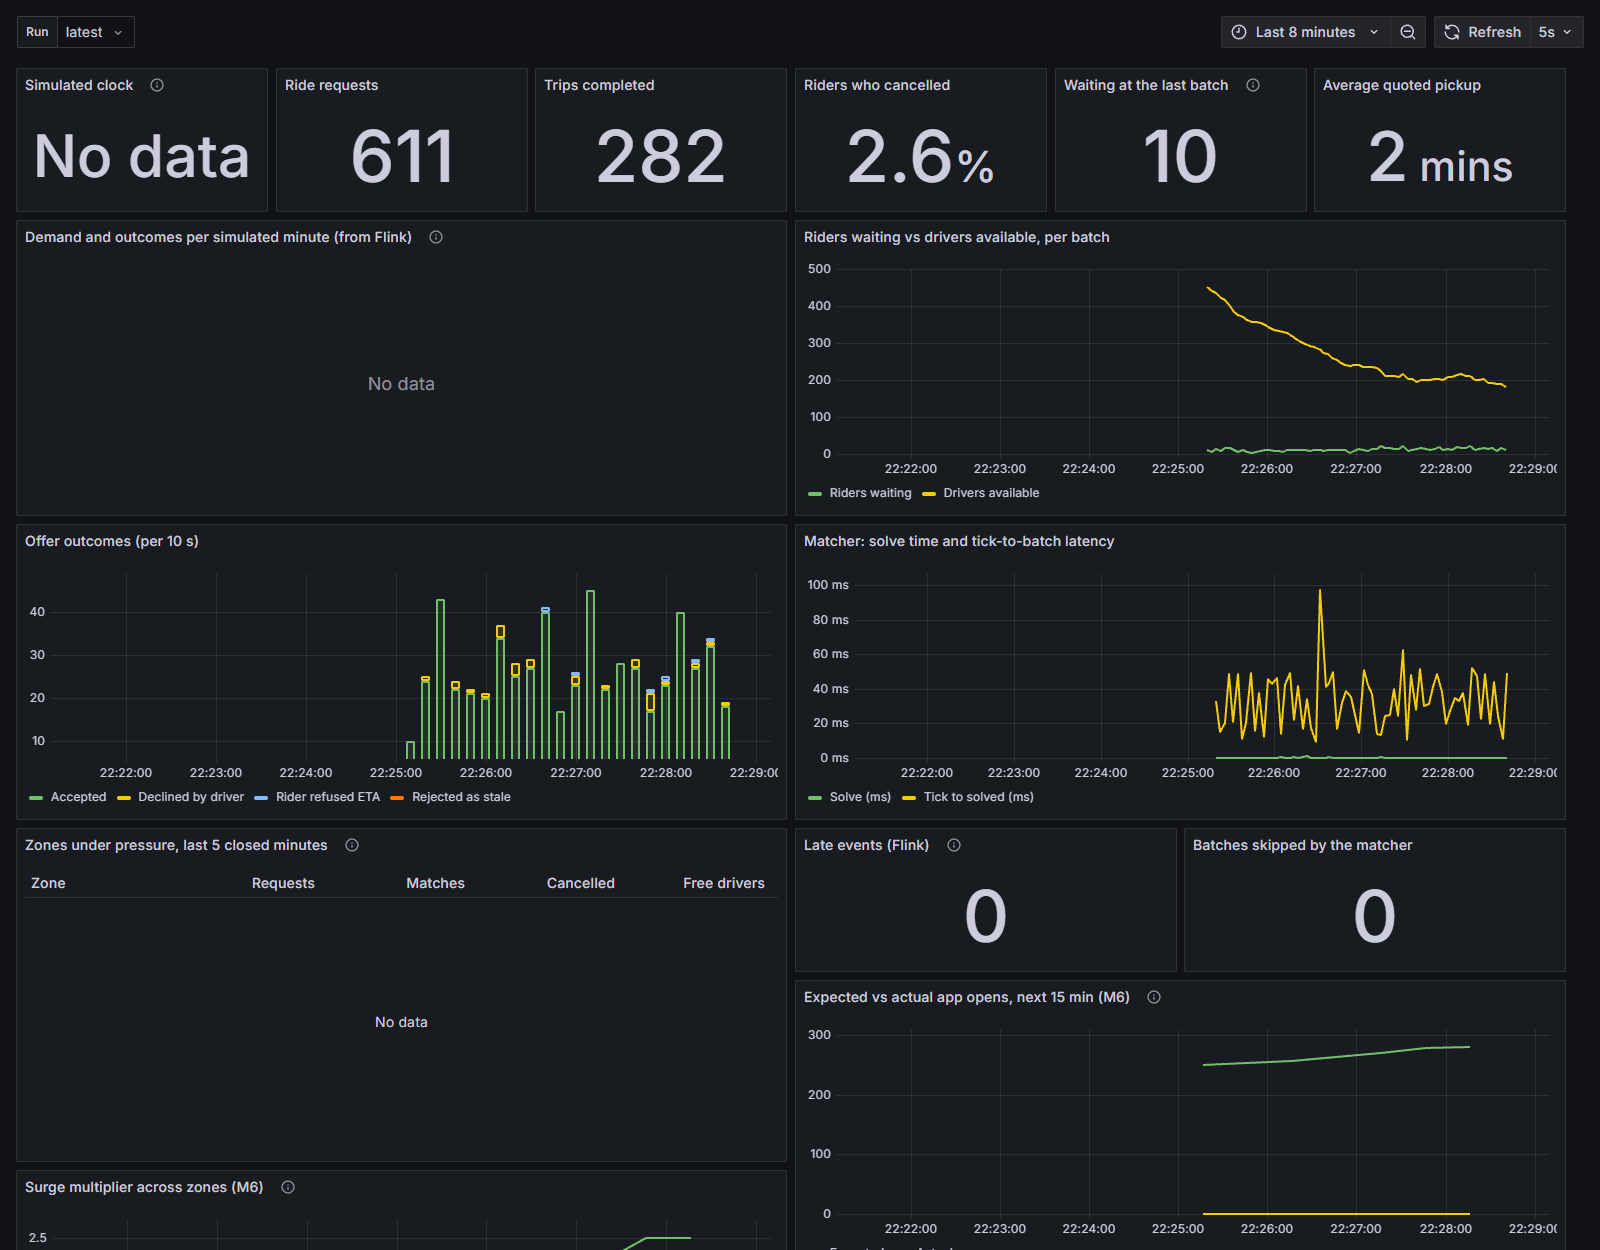
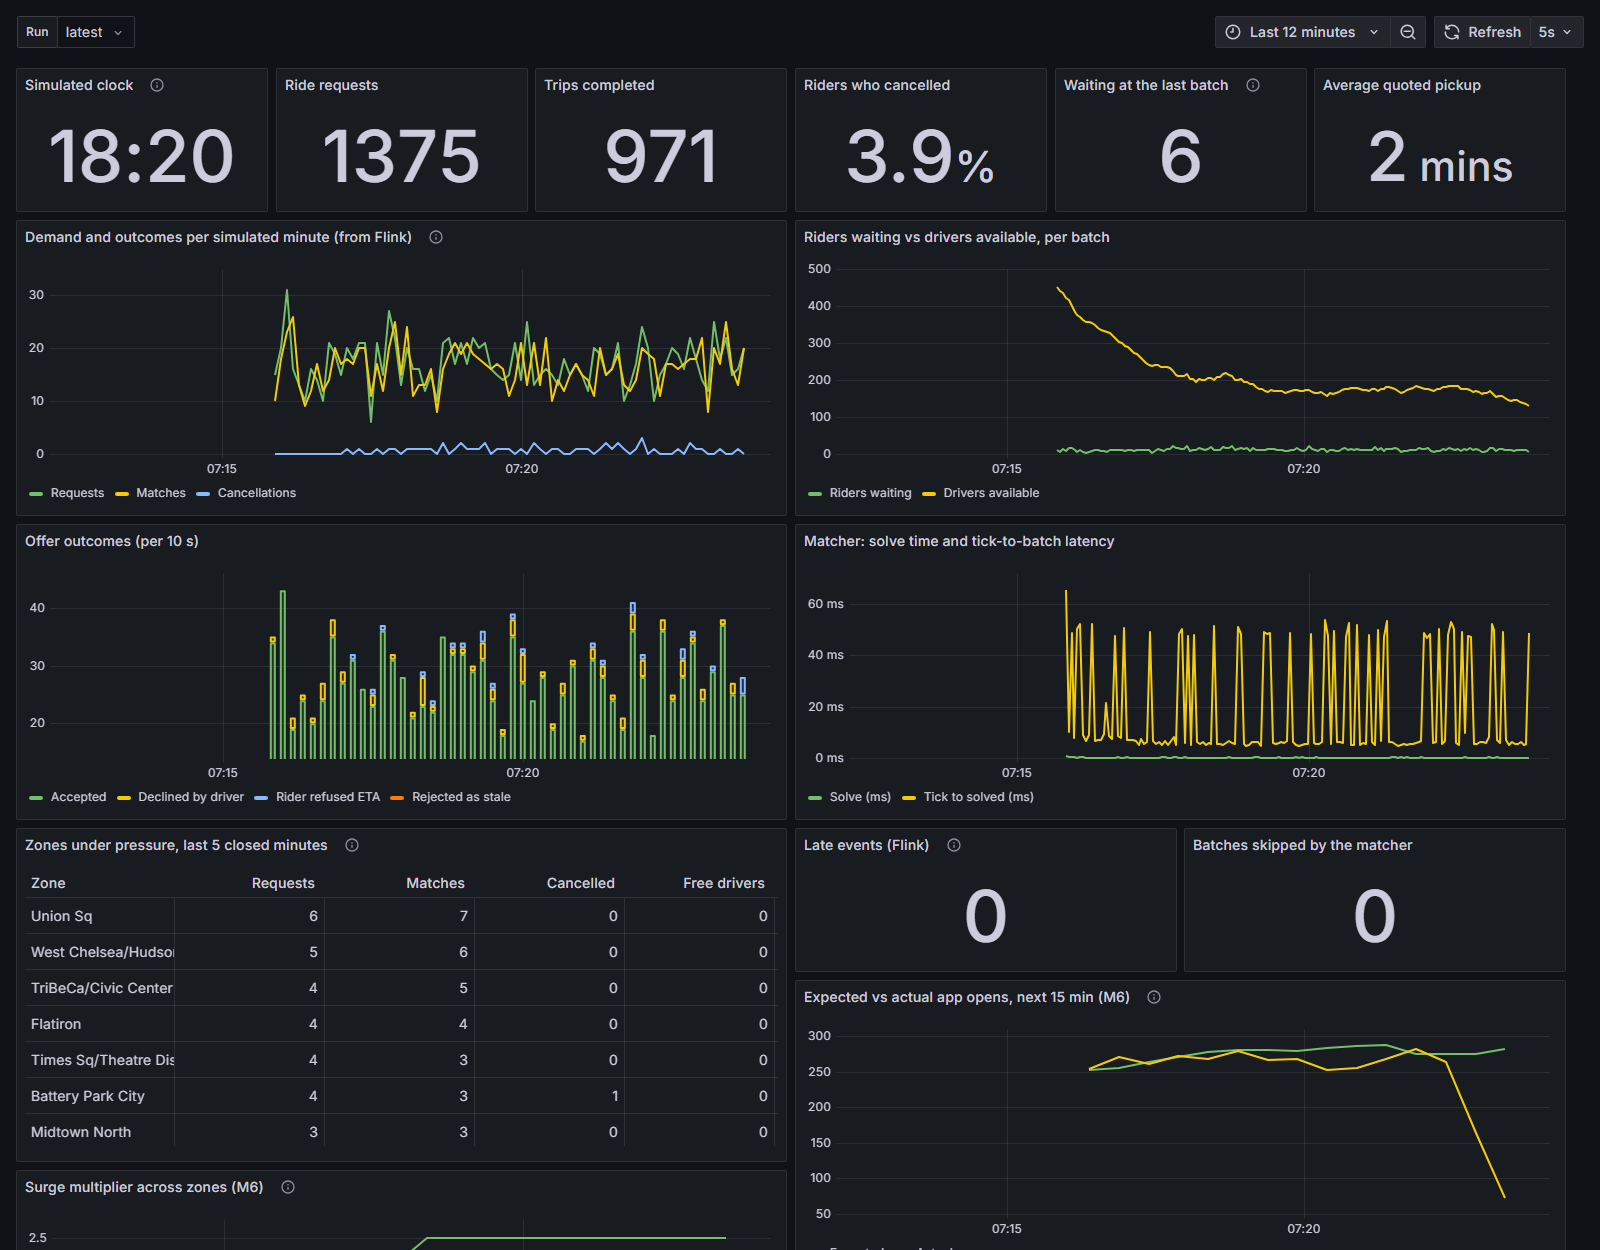
README overview; Grafana screenshot with Flink; fix the clock tile
- README: the problem, what RideSync does, whole-system architecture, tech stack,
  quick start and limitations, ahead of the milestone deep dives.
- docs/img/grafana.png: a live run at 10x with the Flink job and the pricing
  service, so the Flink panels, zone table and surge panels have data.
- Grafana "Simulated clock" showed "No data": the stat panel skips string
  fields unless reduceOptions.fields says otherwise. Not a Flink issue, as the
  old caption claimed.

diff --git a/docker/grafana/make_dashboard.py b/docker/grafana/make_dashboard.py
@@ -37,10 +37,13 @@ def ch(sql, fmt):
             "format": 0 if fmt == "timeseries" else 1, "queryType": fmt}
 
 
-def stat(title, sql, unit="none", decimals=None, w=4, desc=""):
+def stat(title, sql, unit="none", decimals=None, w=4, desc="", text=False):
+    reduce = {"calcs": ["lastNotNull"]}
+    if text:  # a stat panel shows only numeric fields unless told otherwise
+        reduce["fields"] = "/.*/"
     p = {"type": "stat", "title": title, "description": desc, "datasource": CH, "gridPos": place(w, 4),
          "targets": [ch(sql, "table")],
-         "options": {"colorMode": "none", "graphMode": "none", "reduceOptions": {"calcs": ["lastNotNull"]}},
+         "options": {"colorMode": "none", "graphMode": "none", "reduceOptions": reduce},
          "fieldConfig": {"defaults": {"unit": unit}, "overrides": []}}
     if decimals is not None:
         p["fieldConfig"]["defaults"]["decimals"] = decimals
@@ -66,7 +69,7 @@ def table(title, target, ds, w=12, h=9, desc=""):
 
 # ---------------------------------------------------------------- headline
 stat("Simulated clock", f"SELECT formatDateTime(toDateTime('2024-03-13 17:00:00') + toIntervalSecond(toInt32(max(t))), '%H:%i') "
-     f"AS clock FROM rider_events WHERE {RUN}", desc="Replays start at 17:00 on 13 March 2024.")
+     f"AS clock FROM rider_events WHERE {RUN}", desc="Replays start at 17:00 on 13 March 2024.", text=True)
 stat("Ride requests", f"SELECT countIf(type = 'requested') AS requests FROM rider_events WHERE {RUN}")
 stat("Trips completed", f"SELECT countIf(type = 'dropped_off') AS completed FROM rider_events WHERE {RUN}")
 stat("Riders who cancelled", f"SELECT countIf(type = 'cancelled') / greatest(countIf(type = 'requested'), 1) "

diff --git a/README.md b/README.md
@@ -6,6 +6,102 @@ Real-time ride-hailing dispatch: batched optimal bipartite matching (Hungarian) 
 evaluated on a measurable cost function (wait time, cancellations, driver idle time), on real Manhattan
 demand (NYC TLC, March 2024) and road times (OSRM), live over Kafka + Flink, with ML for demand, ETA and surge.
 
+**Contents:** [The problem](#the-problem) · [What RideSync does](#what-ridesync-does) ·
+[Architecture](#architecture) · [Tech stack](#tech-stack) · [Quick start](#quick-start) · [Results](#results) ·
+[Limitations](#limitations) · [Deep dives](#decisions) · [Layout](#layout) · [Run everything](#run)
+
+## The problem
+
+When a rider asks for a car, a ride-hailing platform has a few seconds to decide which driver to send, while
+new requests and driver positions keep arriving. The obvious rule is to send the nearest free driver the moment
+a request comes in, but it is short-sighted:
+
+- It may take the only driver near one rider to serve another rider who had other options.
+- When drivers are scarce, a freed driver goes to whoever has waited longest, however far away. That means long
+  pickups, and riders cancel when they see the quoted ETA.
+- Every bad decision costs something measurable: rider wait, lost trips (cancellations) and drivers driving
+  empty.
+
+Other questions surround the matching decision. How long will the pickup really take (ETA)? Where will demand be
+in 15 minutes? Should prices rise? Where should idle drivers wait? A real system also answers them over event
+streams, where messages arrive late and out of order and services restart, and the numbers still have to add up.
+
+## What RideSync does
+
+RideSync builds a complete dispatch system and **measures which ideas actually pay off** on real New York demand.
+Each claim below comes from a paired, seeded experiment in [`experiments/`](experiments/), and the negative
+results are reported alongside the positive ones.
+
+- **Batched, optimal matching.** Requests are collected for a few seconds, and each batch is solved as a
+  minimum-cost bipartite matching with the Hungarian algorithm (written from scratch). Several greedy rules serve
+  as baselines.
+- **A cost that counts what matters.** The cost covers pickup time, how likely a rider is to cancel, and how long
+  the rider has already waited (fairness).
+- **Real city, real demand.** Riders are replayed from NYC TLC trip records for Manhattan. Drives follow the road
+  network (OpenStreetMap + OSRM), with times fitted to real trip durations.
+- **Live, not just offline.** The same matcher runs as a service over Kafka. Flink computes per-zone stream
+  features, with explicit handling of late events. A trip ledger goes to Postgres, event history to ClickHouse,
+  and the system appears on Grafana dashboards and a live map.
+- **ML where it helps.** The models are a demand forecast, a learned ETA correction with ranges, a fare fit, a
+  surge-pricing policy and idle-driver repositioning.
+
+## Architecture
+
+```
+ Data & models                      Offline mode (experiments)                  Live mode (demo)
+ ─────────────                      ──────────────────────────                  ────────────────
+ NYC TLC trips (Mar 2024) ──┐       seeded discrete-event simulator             live simulator (same engine,
+ taxi zones ────────────────┼──►    faster than real time                       paced at N× wall clock)
+ OpenStreetMap ─► OSRM ─────┘            │                                         │ ▲  Kafka topics
+        │                                ▼                                         ▼ │
+        │ ridesync.ml.train     ridesync.dispatch  ◄── one shared matcher ──►  matcher service
+        ▼                       batch → ETA matrix → Hungarian / greedy            │
+ demand · ETA · fare models ──► (used by both modes)                               ├─► Flink zone features ─► pricing service
+                                         │                                         ├─► ClickHouse ─┐
+                                         ▼                                         ├─► Postgres ───┴─► Grafana :3000
+                                paired metrics, reports                            └─► FastAPI/WebSocket ─► live map :8000
+                                (experiments/results)
+```
+
+Offline and live build and solve batches with the same `ridesync.dispatch` code. A lockstep test shows that the
+live path, run with zero latency, gives results bit-identical to offline, so any difference between the modes is
+latency alone. The per-milestone diagrams are further down: [live mode](#live-mode-m3),
+[stream features](#stream-features-and-screens-m4-m5), [ML and surge](#demand-forecast-surge-pricing-eta-correction-m6)
+and [repositioning](#repositioning-m7).
+
+## Tech stack
+
+| Area | Technology | Used for |
+|---|---|---|
+| Language | Python 3.10–3.13 | One package shared by the simulator, services and Flink job (PyFlink needs 3.10/3.11 compatibility) |
+| Matching | NumPy, Hungarian / Kuhn-Munkres written from scratch | Solving each batch; SciPy `linear_sum_assignment` is a test oracle and the repositioning solver |
+| Routing | OSRM 6.0 (MLD) on an OpenStreetMap NYC extract | Road travel times and routes, scaled to fit TLC trip times |
+| Data | NYC TLC High-Volume FHV trips, taxi zones; pandas, PyArrow, GeoPandas/Shapely | Demand replay, placing trip ends inside zone polygons, training data |
+| Messaging | Apache Kafka 3.9 (KRaft), `confluent-kafka` | World events, offers and responses, batch stats, zone features and prices |
+| Stream processing | Apache Flink 1.20 (PyFlink) | Driver state, windowed zone features, watermarks and late events |
+| Storage | ClickHouse 24.8 (Kafka engine), PostgreSQL 16 (`psycopg` 3) | Event history and time series; idempotent trip ledger |
+| Dashboards | Grafana 11.4 + ClickHouse plugin | Dashboards generated from code (`docker/grafana/make_dashboard.py`) |
+| Live map | FastAPI, WebSocket, uvicorn, deck.gl 9, MapLibre GL 4 | Drivers and riders moving in real time |
+| ML | scikit-learn (gradient-boosted trees, quantile regression), joblib | Demand forecast, ETA correction with 10–90% ranges, fare fit |
+| Infra | Docker Compose (profiles), GitHub Actions | One-command services; tests on Python 3.10 and 3.13 on every push |
+
+## Quick start
+
+You need Python 3.10+. Docker Desktop is needed only for the live parts. Plan for about 1.7 GB of RAM for the
+Kafka/storage/Grafana stack, 2.4 GB more for Flink, and about 3 GB for the one-off OSRM preprocessing.
+
+```
+git clone https://github.com/VivekKN001/RideSync.git && cd RideSync
+python -m venv .venv
+.venv\Scripts\activate                 # Linux/macOS: source .venv/bin/activate
+pip install -e ".[dev]"
+pytest                                 # ~800 tests; those needing data, models, Kafka or Postgres skip themselves
+python experiments/m1_batching.py      # batching vs greedy in a synthetic city: no downloads, no Docker
+```
+
+From there, [Run](#run) goes milestone by milestone: download the real data, start the road network, run live
+mode over Kafka, add Flink, storage and dashboards, train the models and rerun every experiment.
+
 ## Results
 
 Every number is a paired comparison over seeded runs (same riders, same draws), mean ± 95% CI. Details, tables and
@@ -35,6 +131,19 @@ caveats: [`experiments/FINDINGS.md`](experiments/FINDINGS.md).
 | M5 | Postgres sink, ClickHouse, Grafana, deck.gl live map | done: screens below |
 | M6 | ML: demand forecast, ETA correction (live traffic, ranges), fare fit, surge policy + elasticity | done |
 | M7 | Idle-driver repositioning: drift baseline vs coordinated plan (offline) | done |
+
+## Limitations
+
+- **Rider behaviour is assumed, not measured.** No public data exists for patience, ETA tolerance or price
+  elasticity, so the experiments vary them instead of claiming one true value.
+- **Zone-level data.** TLC records zones, not coordinates, so trip ends are sampled inside zone polygons. That puts
+  a floor under ETA accuracy, and the M6 report measures it.
+- **One time slice, mostly.** Most results come from one weekday evening peak (2024-03-13, 17:00–20:00, 10% of
+  Manhattan trips), and M7 adds one unseen test day. Morning peaks, weekends and full scale are still to check.
+- **Fixed fleet.** Drivers don't respond to prices, so surge can only ration demand (see the results).
+- **No reassignment after dispatch.** Repositioning and en-route cancellation run offline only; the live matcher
+  doesn't track those states yet.
+- **Single machine.** Kafka has one broker and no replication. The live stack is a demo, not a deployment.
 
 ## Decisions
 
@@ -99,8 +208,9 @@ passenger; riders waiting for a match are pink.
 
 ![Live map](docs/img/live_map.png)
 
-**Grafana** (http://localhost:3000) during the same run. The panels marked "(from Flink)", the simulated clock and
-the zone table need the `stream` profile; this capture ran without it to save memory.
+**Grafana** (http://localhost:3000) during a live run of the same slice at 10× with 450 drivers, the Flink job
+running and surge priced by the separate pricing service (`--surge forecast --price-service`). The panels marked
+"(from Flink)", the zone table, late events and the surge panels come from the `stream` profile.
 
 ![Grafana dashboard](docs/img/grafana.png)
 
